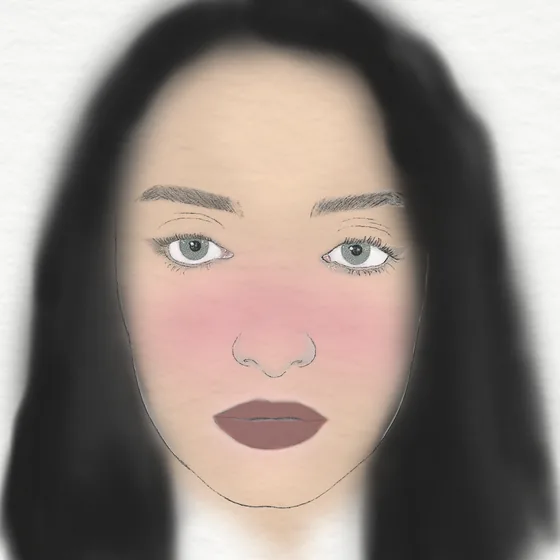
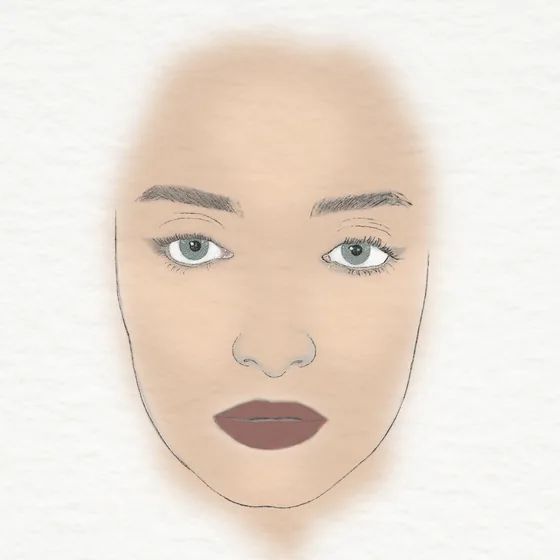
הוספת שלושה ציורים לאנימציית האודות (מדוזה, פנים בקווים כחולים, שיער אדום), והשד
Claude-Session: https://claude.ai/code/session_01EdftsxnPsh1hyQnG82iFW6

diff --git a/index.html b/index.html
@@ -1249,7 +1249,7 @@ if (!reduce) {
   const img = document.getElementById('pf-img');
   if (!img) return;
   const PF_FIRST = 1500, PF_STEP = matchMedia('(max-width:640px)').matches ? 650 : 600;
-  const N = 11, src = i => `about/frames/f${String(i).padStart(2, '0')}.webp`;
+  const N = 15, src = i => `about/frames/f${String(i).padStart(2, '0')}.webp`;
   if (matchMedia('(prefers-reduced-motion:reduce)').matches) return;
   let i = 0, t = 0, seen = false, hover = false, loaded = false;
   const load = () => { if (loaded) return; loaded = true; for (let k = 1; k < N; k++) { const im = new Image(); im.src = src(k); } };
